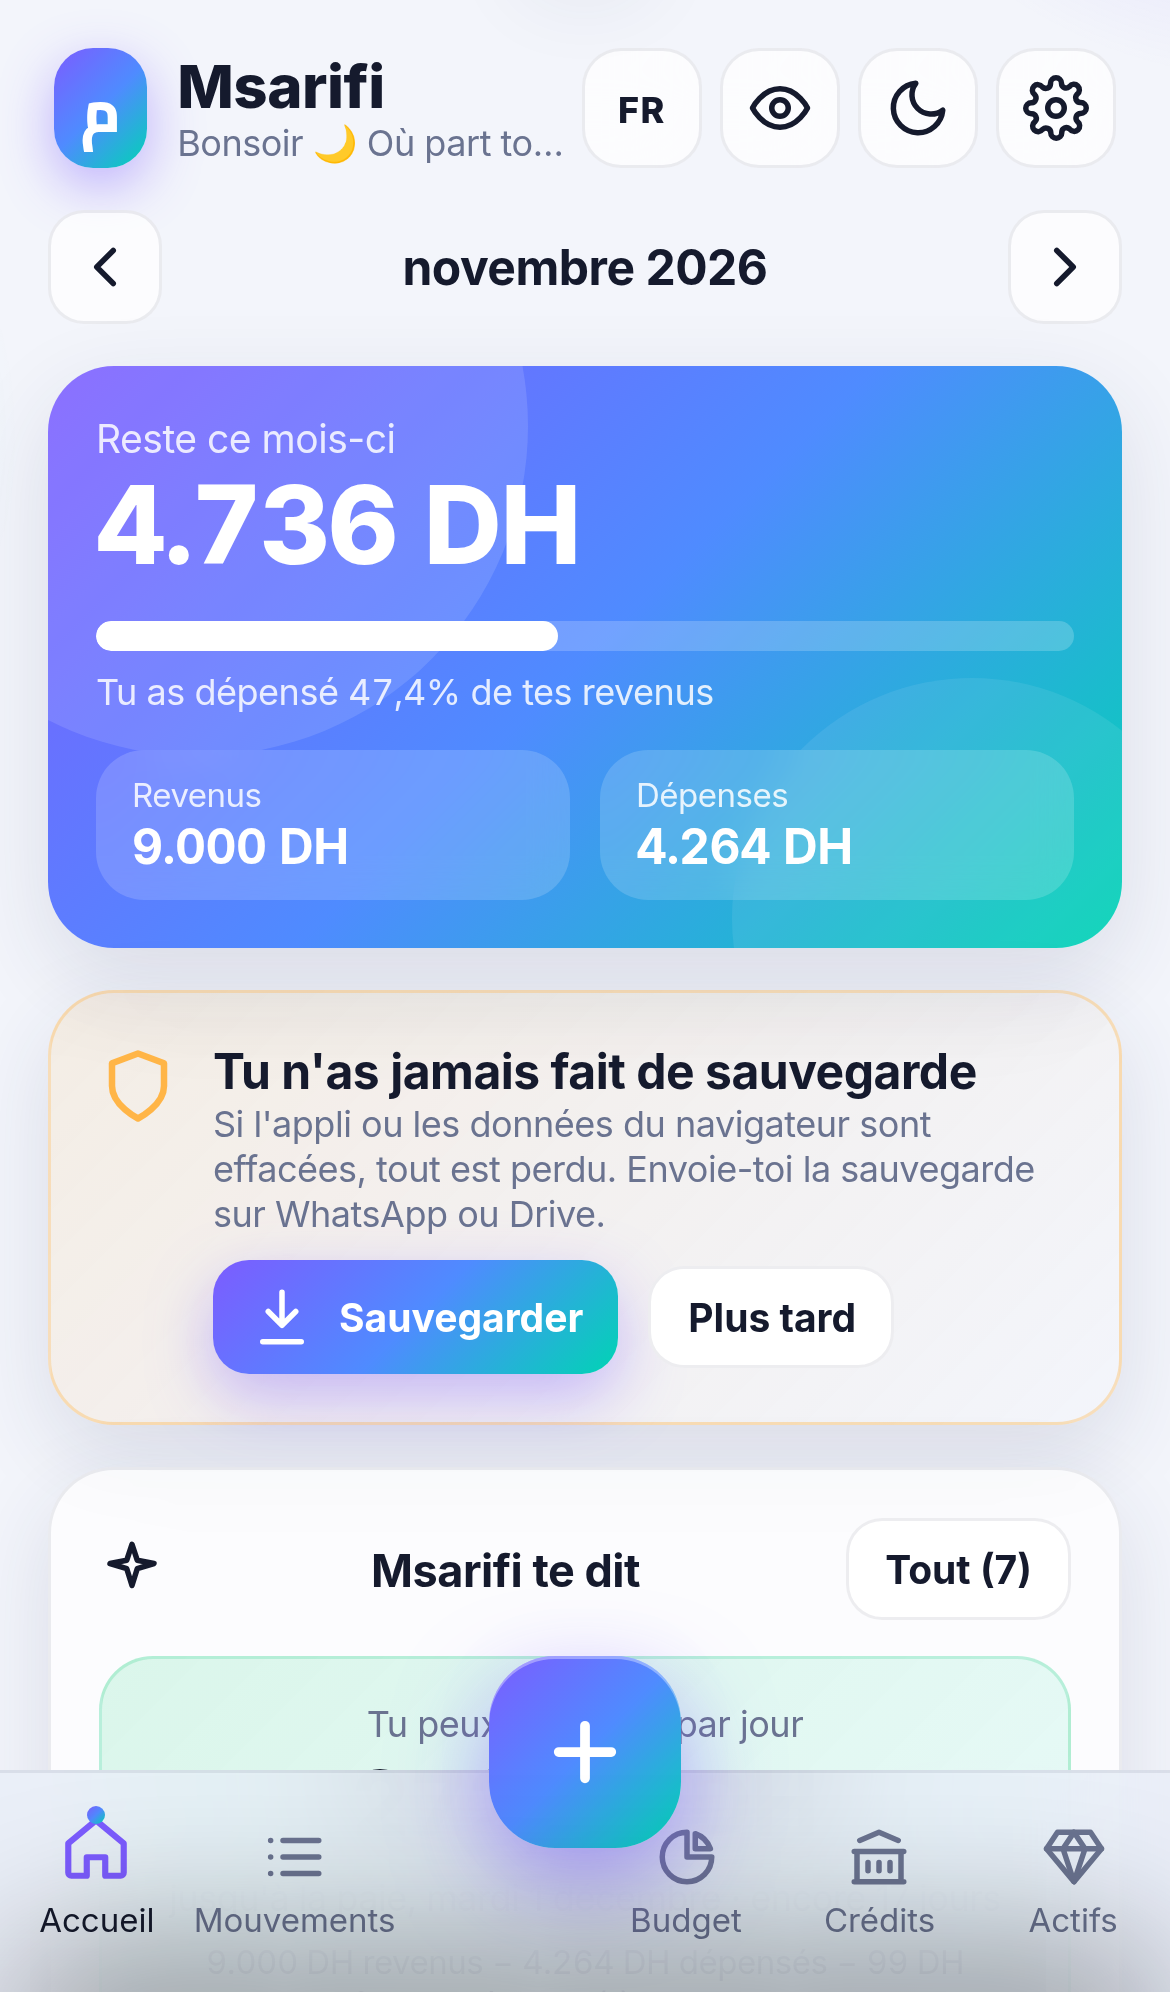
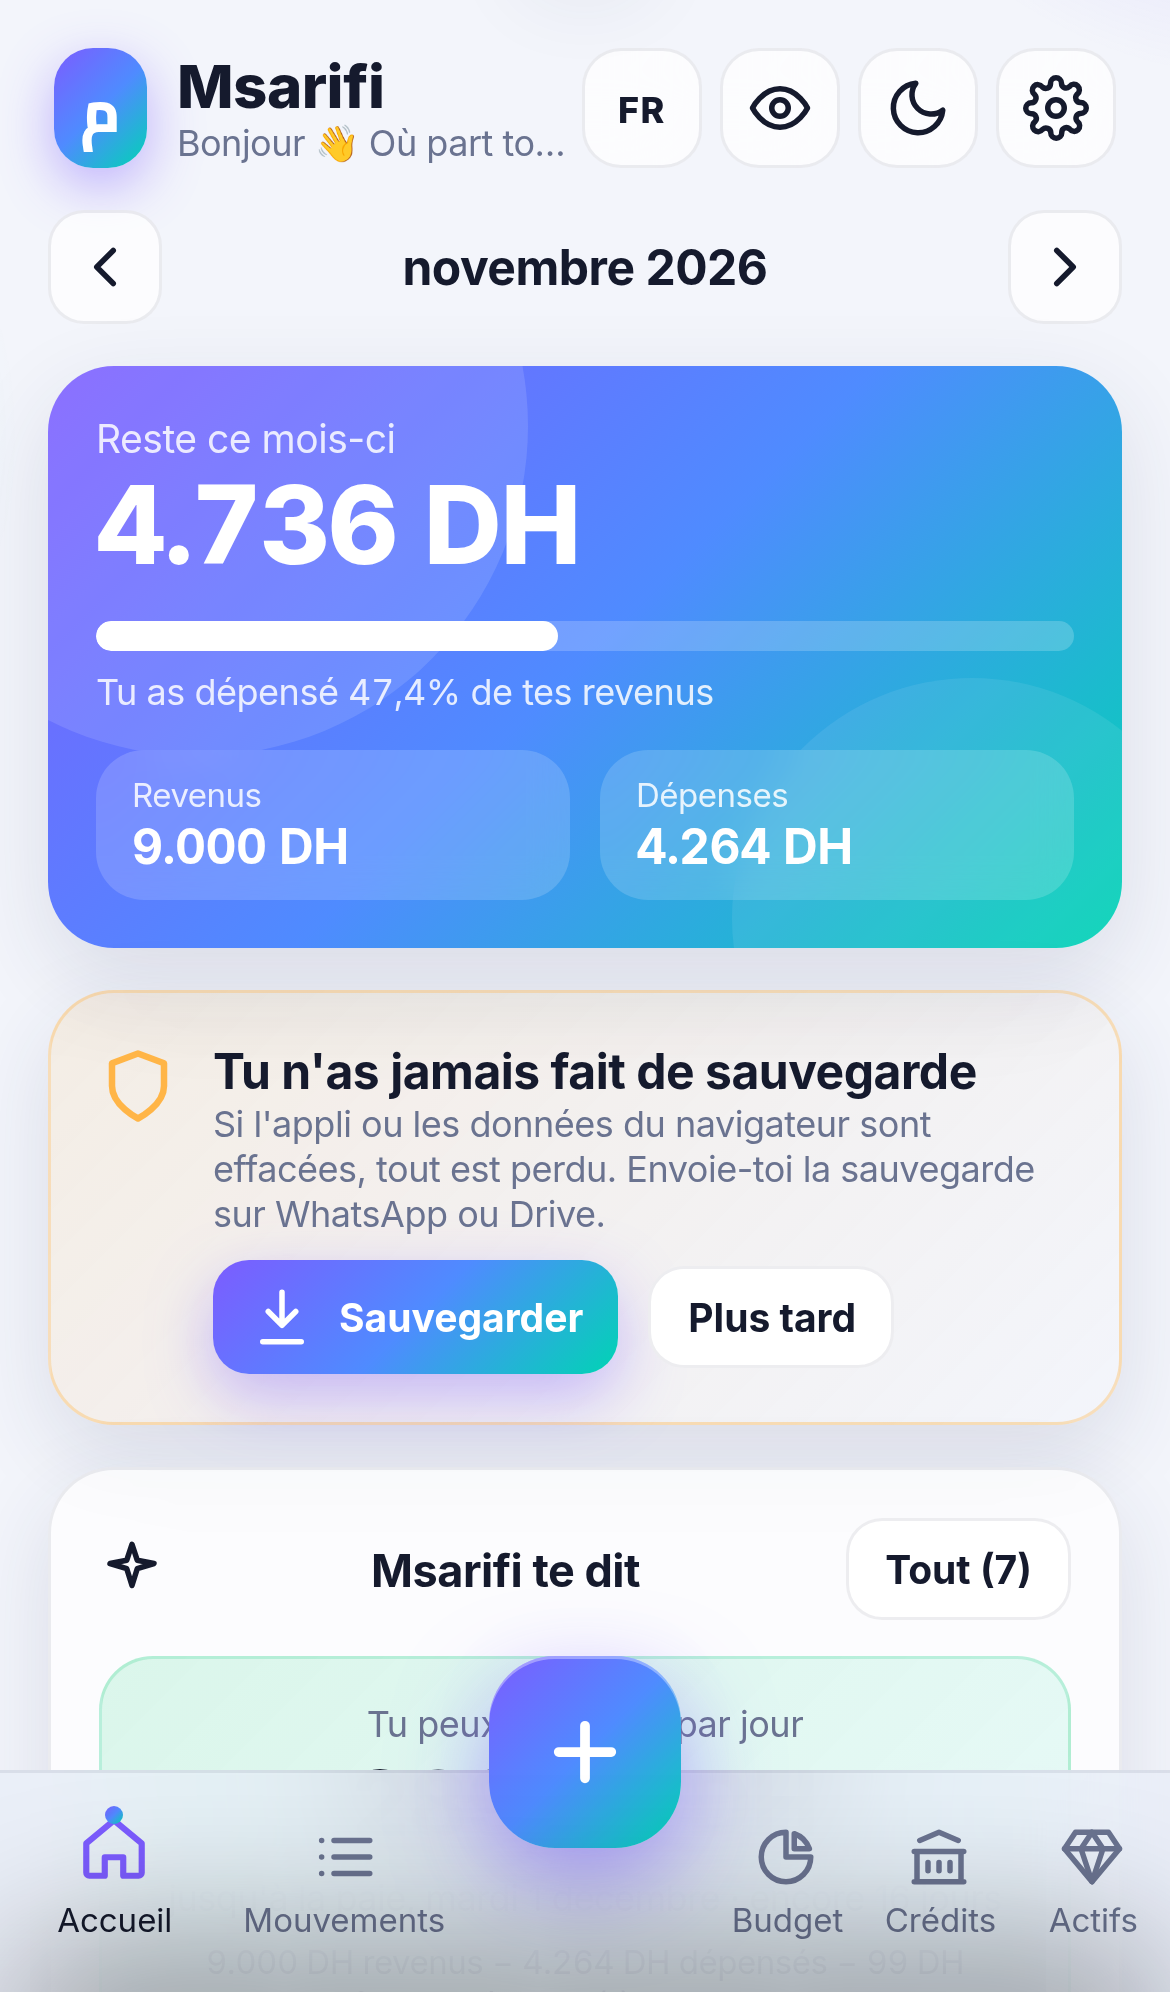
v5: center + button over bottom-nav gap, keep it in place during tap animation

diff --git a/styles.css b/styles.css
@@ -85,17 +85,18 @@ header.top{display:flex;align-items:center;justify-content:space-between;padding
 @keyframes bounce{0%{transform:scale(1)}40%{transform:scale(.85)}70%{transform:scale(1.08)}100%{transform:scale(1)}}
 
 /* FAB */
-.fab{position:fixed;z-index:30;left:50%;bottom:calc(var(--nav-h) - 26px + env(safe-area-inset-bottom));transform:translateX(-50%);width:64px;height:64px;border-radius:22px;border:none;background:var(--grad);color:#fff;box-shadow:0 12px 30px rgba(124,92,255,.55),inset 0 1px 0 rgba(255,255,255,.35);cursor:pointer;display:grid;place-items:center;transition:transform .25s var(--spring)}
+.fab{position:fixed;z-index:30;left:calc(50% - 32px);bottom:calc(var(--nav-h) - 26px + env(safe-area-inset-bottom));width:64px;height:64px;border-radius:22px;border:none;background:var(--grad);color:#fff;box-shadow:0 12px 30px rgba(124,92,255,.55),inset 0 1px 0 rgba(255,255,255,.35);cursor:pointer;display:grid;place-items:center;transition:transform .25s var(--spring)}
 .fab svg.i{width:30px;height:30px;stroke-width:2.6;transition:transform .35s var(--spring)}
-.fab:active{transform:translateX(-50%) scale(.9)}
+.fab:active{transform:scale(.9)}
 .fab.open svg.i{transform:rotate(135deg)}
 .fab::after{content:"";position:absolute;inset:0;border-radius:inherit;box-shadow:0 0 0 0 rgba(124,92,255,.6);animation:pulse 2.6s infinite}
 @keyframes pulse{70%{box-shadow:0 0 0 16px rgba(124,92,255,0)}100%{box-shadow:0 0 0 0 rgba(124,92,255,0)}}
 
 /* bottom nav */
-nav.tabs{position:fixed;z-index:20;bottom:0;left:0;right:0;height:calc(var(--nav-h) + env(safe-area-inset-bottom));padding-bottom:env(safe-area-inset-bottom);display:flex;justify-content:space-around;align-items:center;background:color-mix(in srgb,var(--bg2) 78%,transparent);backdrop-filter:blur(22px) saturate(160%);-webkit-backdrop-filter:blur(22px) saturate(160%);border-top:1px solid var(--border)}
-nav.tabs button{flex:1;background:none;border:none;display:flex;flex-direction:column;align-items:center;gap:3px;font-size:11px;color:var(--muted);cursor:pointer;padding:8px 0;position:relative;transition:color .25s}
+nav.tabs{position:fixed;z-index:20;bottom:0;left:0;right:0;height:calc(var(--nav-h) + env(safe-area-inset-bottom));padding-bottom:env(safe-area-inset-bottom);display:grid;grid-template-columns:repeat(2,calc((100% - 84px) / 4)) 84px repeat(3,calc((100% - 84px) / 6));align-items:center;background:color-mix(in srgb,var(--bg2) 78%,transparent);backdrop-filter:blur(22px) saturate(160%);-webkit-backdrop-filter:blur(22px) saturate(160%);border-top:1px solid var(--border)}
+nav.tabs button{min-width:0;background:none;border:none;display:flex;flex-direction:column;align-items:center;gap:3px;font-size:11px;color:var(--muted);cursor:pointer;padding:8px 0;position:relative;transition:color .25s}
 nav.tabs button.gap{pointer-events:none;visibility:hidden}
+nav.tabs button span{max-width:100%;overflow:hidden;text-overflow:ellipsis;white-space:nowrap;padding:0 2px}
 nav.tabs button svg.i{transition:transform .35s var(--spring)}
 nav.tabs button.on{color:var(--text)}
 nav.tabs button.on svg.i{transform:translateY(-3px) scale(1.12);color:var(--primary)}

diff --git a/sw.js b/sw.js
@@ -1,4 +1,4 @@
-const CACHE = 'msarifi-v4';
+const CACHE = 'msarifi-v5';
 const ASSETS = ['./', './index.html', './styles.css', './i18n.js', './app.js', './manifest.json', './fonts/cairo-arabic.woff2', './fonts/cairo-latin.woff2', './fonts/cairo-latin-ext.woff2', './fonts/inter-latin.woff2', './icons/icon-192.png', './icons/icon-512.png', './icons/apple-touch-icon.png'];
 self.addEventListener('install', e => { e.waitUntil(caches.open(CACHE).then(c => c.addAll(ASSETS)).then(() => self.skipWaiting())); });
 self.addEventListener('activate', e => { e.waitUntil(caches.keys().then(ks => Promise.all(ks.filter(k => k !== CACHE).map(k => caches.delete(k)))).then(() => self.clients.claim())); });
